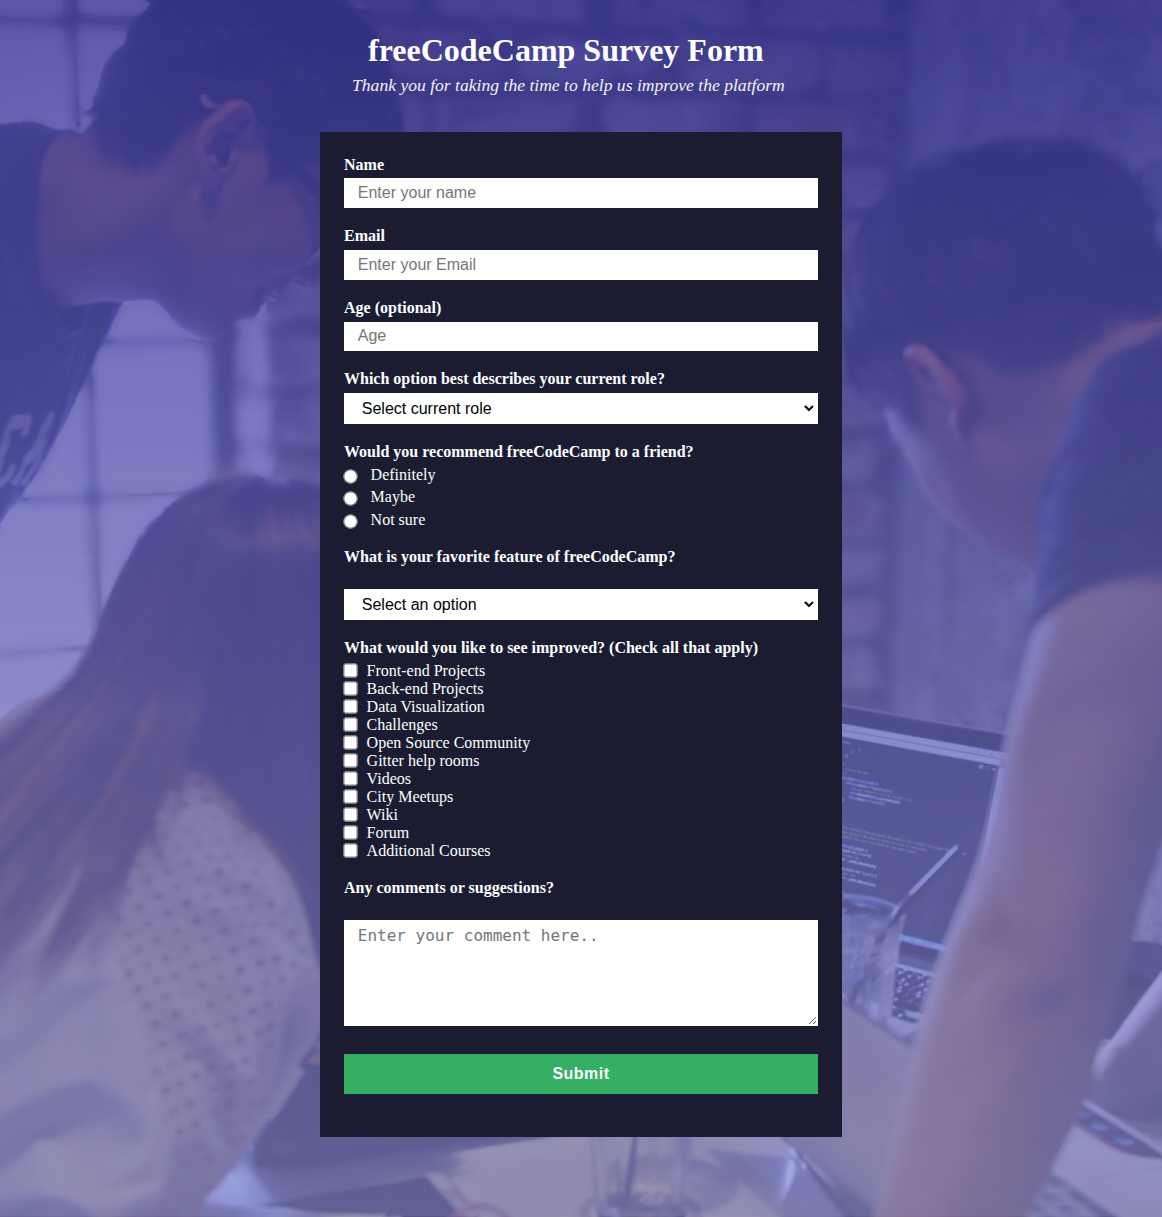
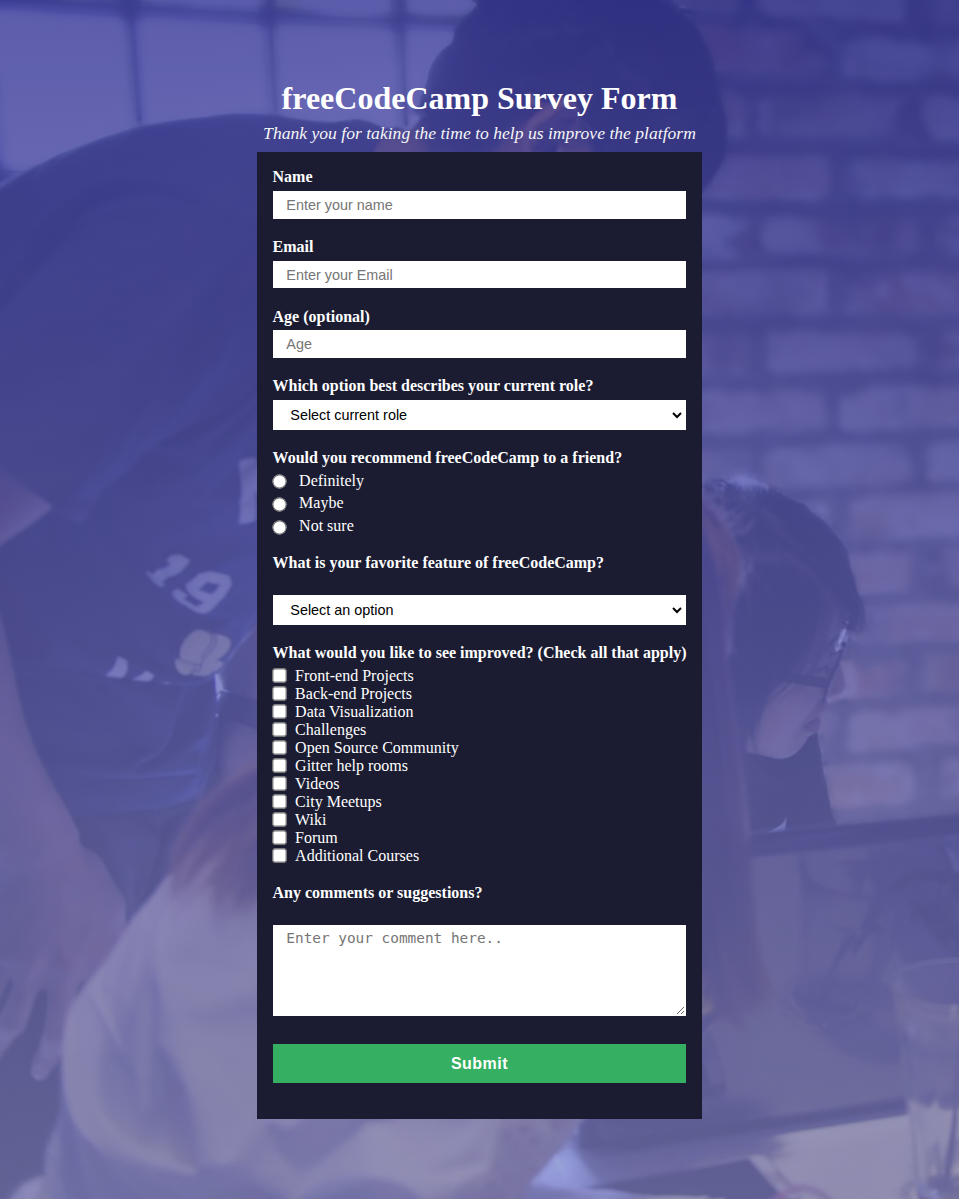
feat: rename  survey form file HTML  and update styles and folder structure

diff --git a/style.css b/style.css
@@ -7,14 +7,18 @@
 body {
   background-image: linear-gradient(rgb(58 58 158 / 80%), rgb(136 136 206 / 70%)), url("./assets/images/survey-form-background.jpeg");
   background-size: cover;
-  background-position: center;
   background-repeat: no-repeat;
 }
 
 .form-contain {
+  display: grid;
   justify-content: center;
   align-items: center;
-  padding: 2rem 20rem 5rem;
+  padding: 5rem 1rem;
+}
+
+.title {
+  text-align: center;
 }
 
 h1 {
@@ -22,20 +26,19 @@ h1 {
   font-weight: 700;
   color: white;
   margin-bottom: 0.4rem;
-  padding-left: 3rem;
 }
 
 .secondtitle {
   font-size: 1.1rem;
   color: whitesmoke;
-  margin-bottom: 2.2rem;
+  margin-bottom: 0.5rem;
   font-style: italic;
-  padding-left: 2rem;
 }
 
 .survey {
   background-color: #1b1c31;
-  padding: 1.5rem;
+  padding: 1rem;
+  
 }
 
 .form-group {

diff --git a/survey.html b/survey.html
@@ -9,10 +9,13 @@
 <body>
   
   <div class="form-contain">
-    <h1>freeCodeCamp Survey Form</h1>
-    <p class="secondtitle">Thank you for taking the time to help us improve the platform</p>
+    <div class="title">
+      <h1>freeCodeCamp Survey Form</h1>
+      <p class="secondtitle">Thank you for taking the time to help us improve the platform</p>
+    </div>
 
     <!--form-->
+    
     <form class="survey" action="#" method="post">
       <!--name-->
       <div class="form-group">
